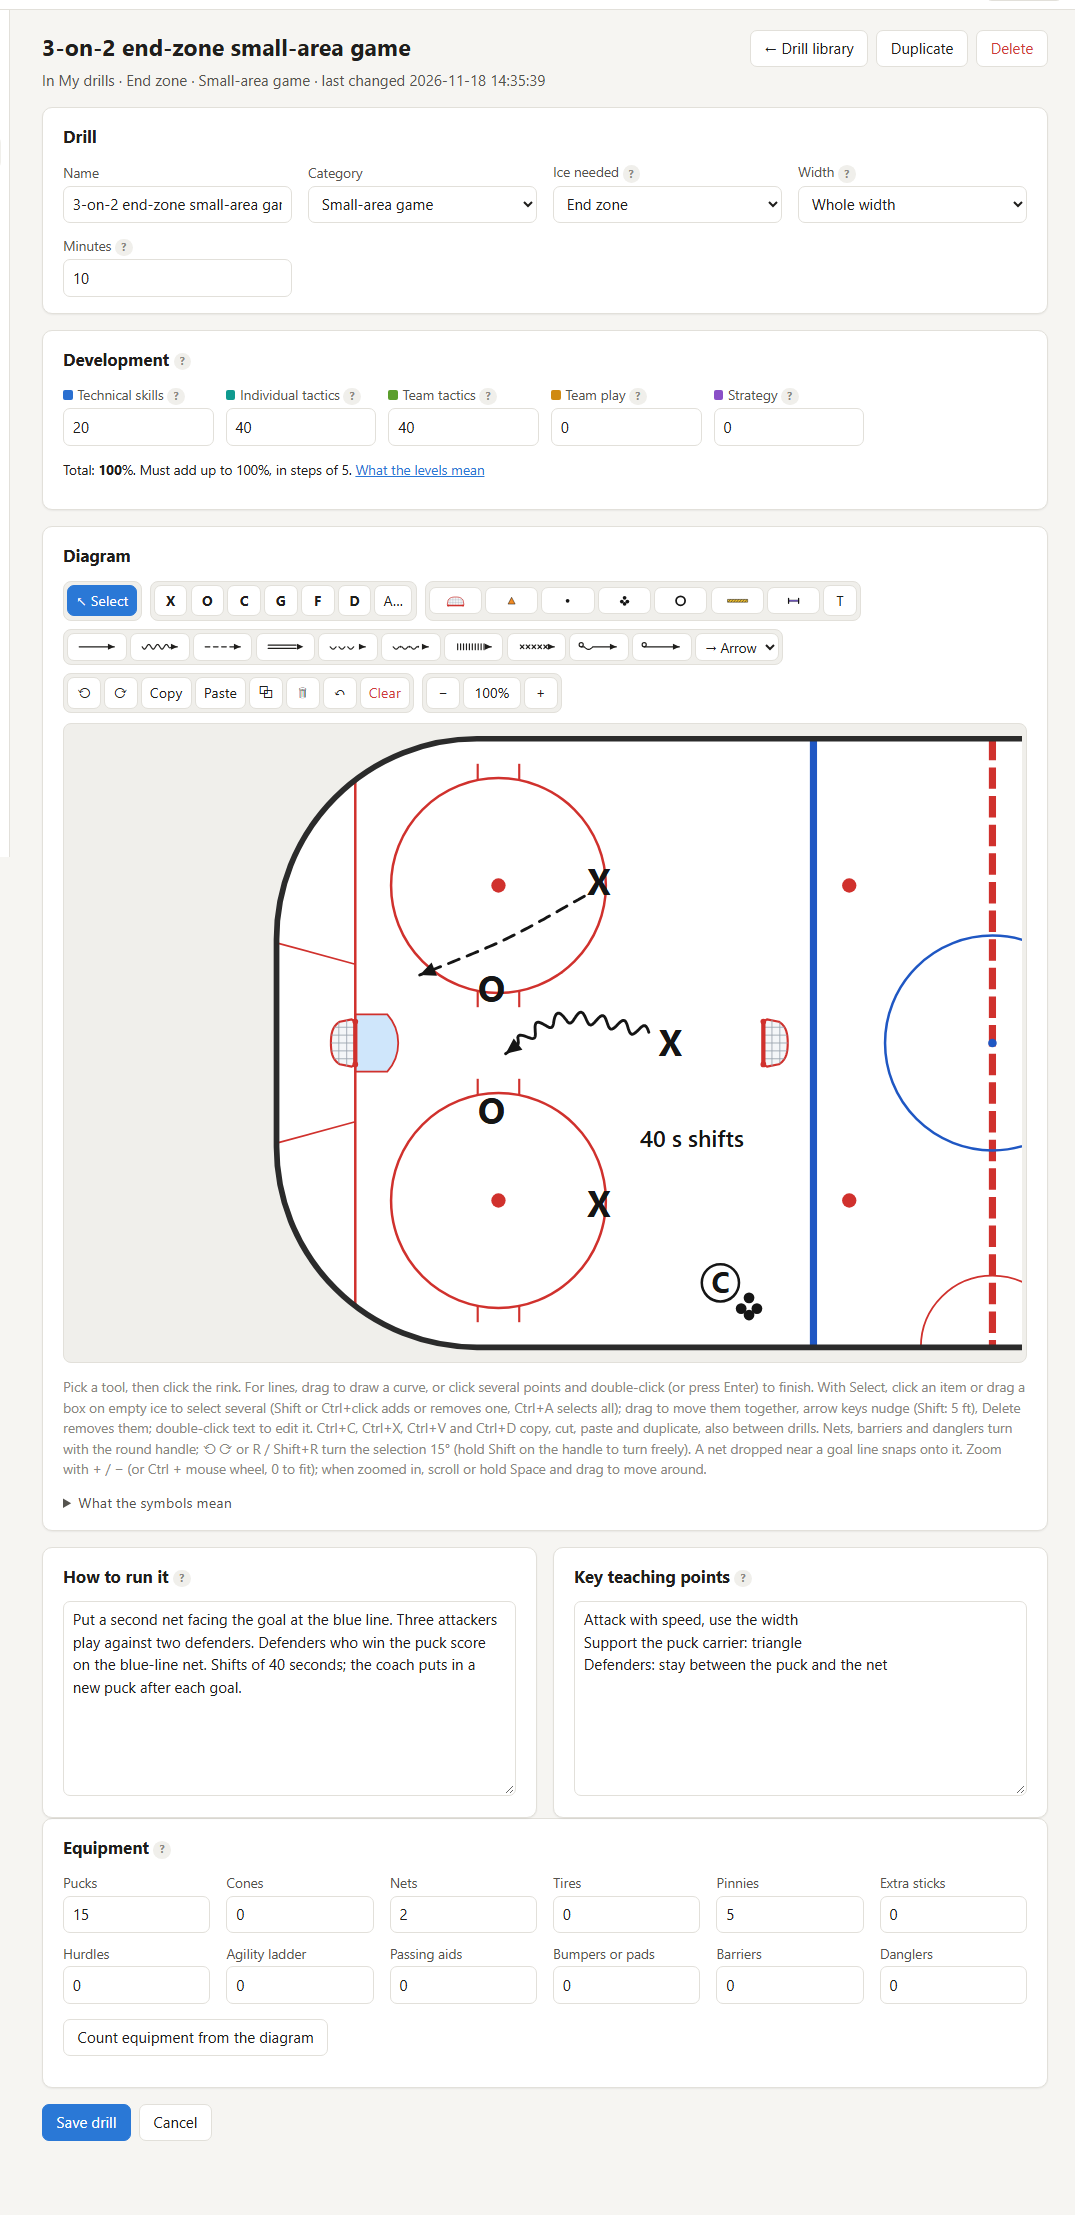
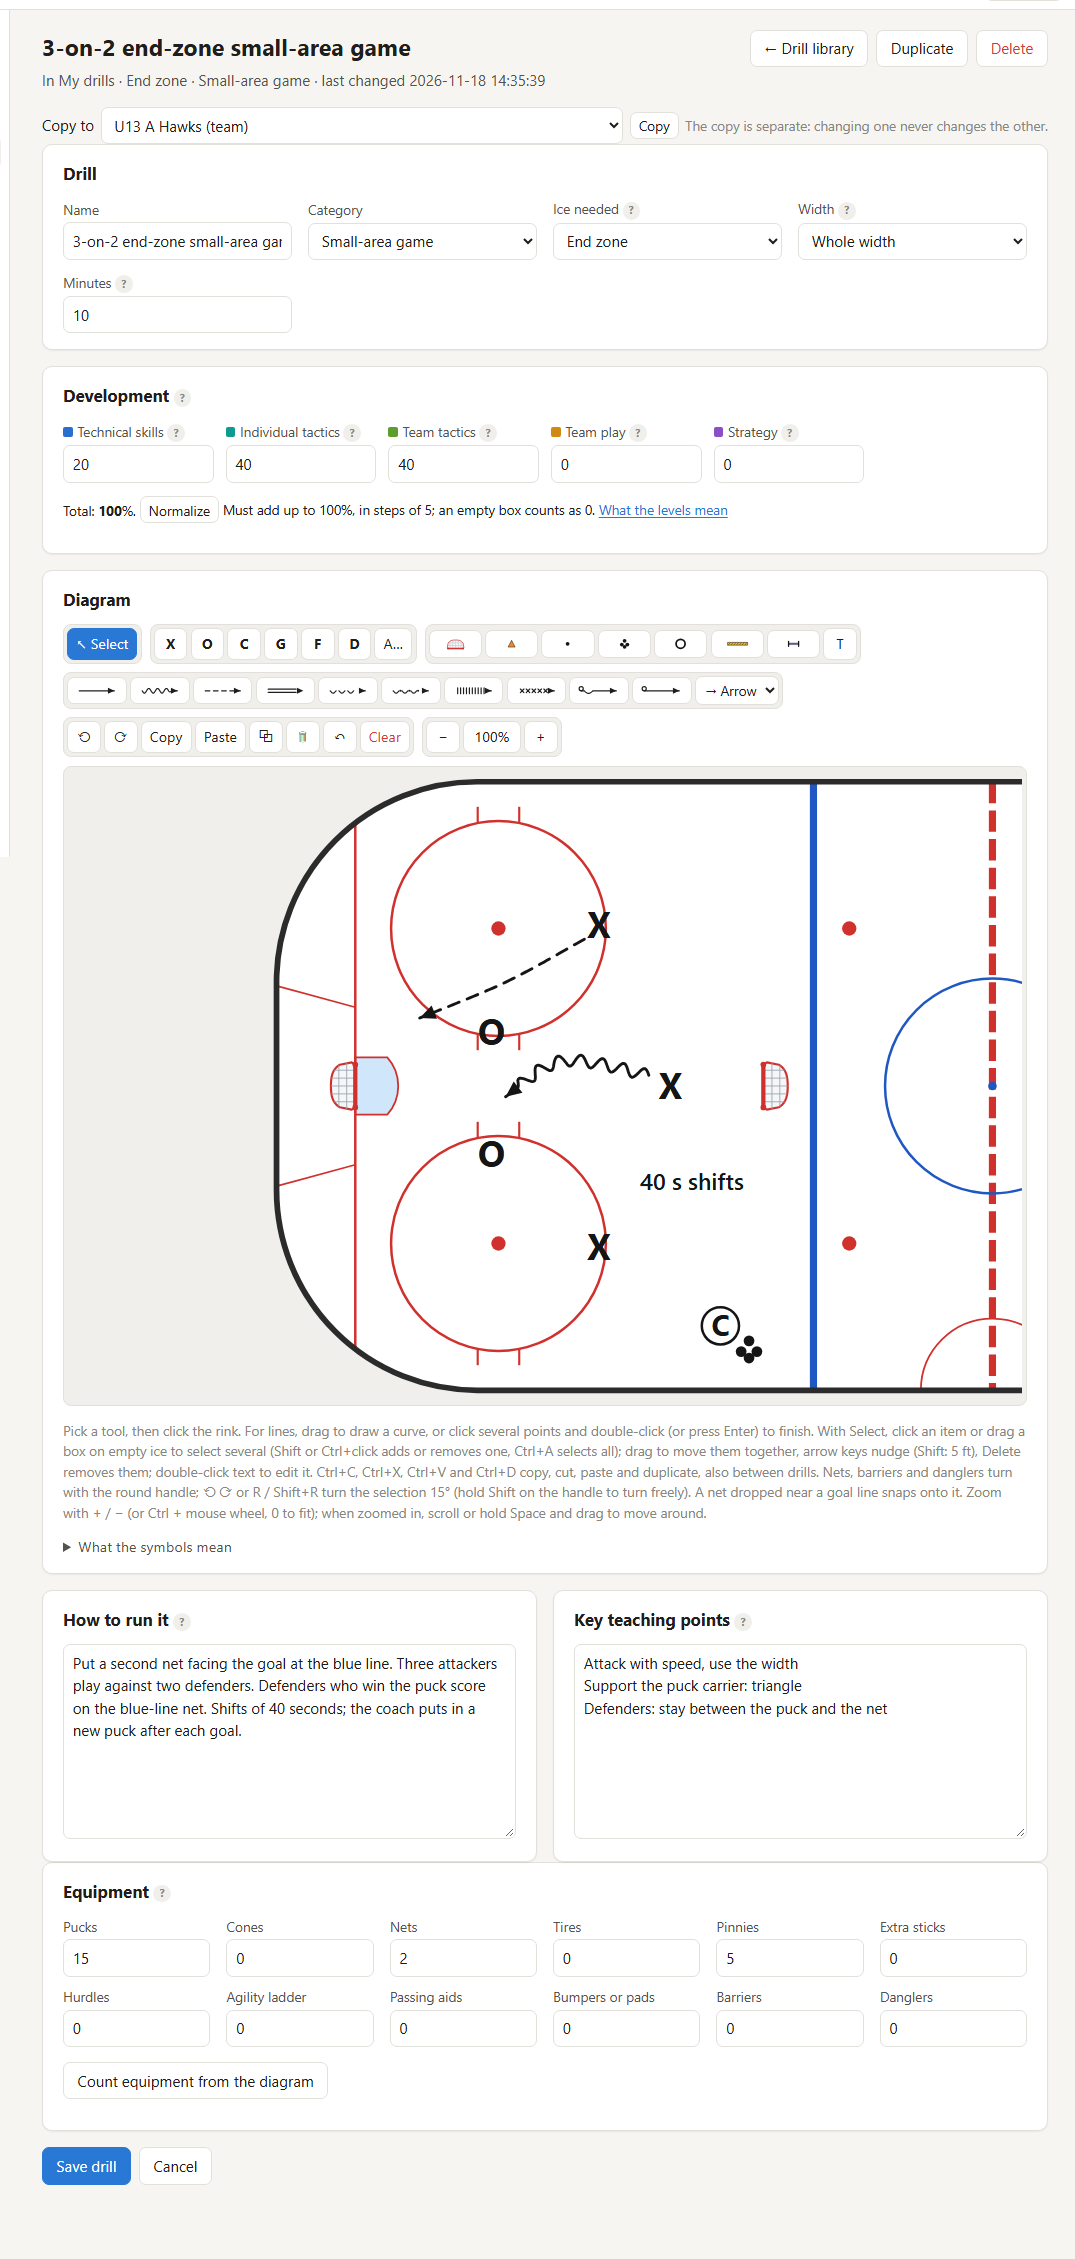
improve dev focus assignments

diff --git a/crates/server/assets/app.js b/crates/server/assets/app.js
@@ -176,14 +176,19 @@ if (window.htmx) {
   document.addEventListener("DOMContentLoaded", () => setUpToasts(document.body));
 }
 
-// The drill form's development split ([data-focus]): show the running total
-// next to it ([data-focus-total]), flagged until it makes 100%.
+// A development split ([data-focus]: a drill's split or a team's targets):
+// show the running total ([data-focus-total]), flagged until it makes 100%.
+// An empty box counts as 0 (the server reads it the same way).
+function focusValue(input) {
+  return Math.max(0, parseInt(input.value, 10) || 0);
+}
+
 function updateFocusTotal(group) {
   const total = Array.from(group.querySelectorAll("[data-focus-part]")).reduce(
-    (sum, input) => sum + (parseInt(input.value, 10) || 0),
+    (sum, input) => sum + focusValue(input),
     0,
   );
-  const out = group.parentElement && group.parentElement.querySelector("[data-focus-total]");
+  const out = group.querySelector("[data-focus-total]");
   if (out) {
     out.textContent = String(total);
     out.classList.toggle("warn-text", total !== 100);
@@ -193,6 +198,45 @@ document.addEventListener("input", (event) => {
   const group = event.target.closest("[data-focus]");
   if (group) {
     updateFocusTotal(group);
+  }
+});
+
+// Normalize ([data-focus-normalize]): scale what's entered so it adds up to
+// 100% in the boxes' steps (5%), keeping the proportions as closely as the
+// steps allow (largest remainders get the leftover steps).
+function normalizeFocus(group) {
+  const inputs = Array.from(group.querySelectorAll("[data-focus-part]"));
+  const values = inputs.map(focusValue);
+  const sum = values.reduce((a, b) => a + b, 0);
+  if (sum === 0) {
+    return;
+  }
+  const step = Number(inputs[0].step) || 5;
+  const units = Math.round(100 / step);
+  const exact = values.map((v) => (v * units) / sum);
+  const steps = exact.map(Math.floor);
+  let left = units - steps.reduce((a, b) => a + b, 0);
+  const order = exact
+    .map((e, i) => [e - Math.floor(e), i])
+    .sort((a, b) => b[0] - a[0] || a[1] - b[1]);
+  for (const [, i] of order) {
+    if (left <= 0) {
+      break;
+    }
+    steps[i] += 1;
+    left -= 1;
+  }
+  inputs.forEach((input, i) => {
+    input.value = String(steps[i] * step);
+    // Lets data-implies and the total react as if typed.
+    input.dispatchEvent(new Event("input", { bubbles: true }));
+  });
+}
+document.addEventListener("click", (event) => {
+  const button = event.target.closest("[data-focus-normalize]");
+  const group = button && button.closest("[data-focus]");
+  if (group) {
+    normalizeFocus(group);
   }
 });
 function setUpFocus(root) {

diff --git a/crates/server/src/views/development.rs b/crates/server/src/views/development.rs
@@ -149,31 +149,77 @@ pub fn composition_panel(c: &Composition, targets: Option<Split>, guide: &str) -
     }
 }
 
-/// The drill form's five percentage fields (`focus_<level>`), in 5% steps.
-pub fn focus_fields(split: Option<Split>, guide: &str) -> Markup {
-    html! {
-        div class="focus-fields" data-focus {
-            @for l in Level::ALL {
-                label class="field" {
-                    span class="field-label" {
-                        span class={ "swatch lvl-" (l.key()) } {}
-                        (l.label()) " " (tip(l.about()))
+/// Five percentage fields, one per level (`<prefix><level>`), in 5% steps.
+/// Empty or untouched boxes are 0. With JavaScript they show a running total
+/// and a Normalize button that scales what's entered to add up to 100%.
+pub struct SplitInputs<'a> {
+    /// `"focus_"` (a drill) or `"target_"` (a team's targets).
+    pub prefix: &'a str,
+    pub values: [u8; 5],
+    /// The development guide, linked under the fields.
+    pub guide: Option<&'a str>,
+    /// A `data-implies` for each box (typing a target picks "our own").
+    pub implies: Option<&'a str>,
+    /// Each level's explanation as a tip beside its name.
+    pub tips: bool,
+}
+
+impl SplitInputs<'_> {
+    pub fn render(&self) -> Markup {
+        html! {
+            div class="split-inputs" data-focus {
+                div class="focus-fields" {
+                    @for l in Level::ALL {
+                        label class="field" {
+                            span class="field-label" {
+                                span class={ "swatch lvl-" (l.key()) } {}
+                                (l.label())
+                                @if self.tips { " " (tip(l.about())) }
+                            }
+                            input type="number" name={ (self.prefix) (l.key()) } min="0" max="100"
+                                step=(Split::STEP) value=(self.values[l.index()])
+                                data-implies=[self.implies] data-focus-part;
+                        }
                     }
-                    input type="number" name={ "focus_" (l.key()) } min="0" max="100"
-                        step=(Split::STEP) required
-                        value=[split.map(|s| s.get(*l))] data-focus-part;
+                }
+                p class="small" {
+                    span class="js-only" {
+                        "Total: " strong data-focus-total { "–" } "%. "
+                        button type="button" class="small" data-focus-normalize
+                            title="Scale the numbers so they add up to 100%, in steps of 5" { "Normalize" }
+                        " "
+                    }
+                    "Must add up to 100%, in steps of 5; an empty box counts as 0. "
+                    @if let Some(g) = self.guide {
+                        a href=(g) target="_blank" { "What the levels mean" }
+                    }
                 }
             }
-        }
-        p class="small" {
-            span class="js-only" { "Total: " strong data-focus-total { "–" } "%. " }
-            "Must add up to 100%, in steps of 5. "
-            a href=(guide) target="_blank" { "What the levels mean" }
         }
     }
 }
 
-/// Read the drill form's `focus_<level>` fields.
+/// A split's five values, or all 0 for none.
+pub fn split_values(split: Option<Split>) -> [u8; 5] {
+    split.map_or([0; 5], |s| s.0)
+}
+
+/// What was typed in `<prefix><level>` boxes, for showing a rejected form
+/// again (anything that isn't a percentage shows as 0).
+pub fn typed_values(prefix: &str, get: impl Fn(&str) -> String) -> [u8; 5] {
+    let mut v = [0u8; 5];
+    for (i, l) in Level::ALL.iter().enumerate() {
+        v[i] = get(&format!("{prefix}{}", l.key()))
+            .trim()
+            .parse::<u8>()
+            .ok()
+            .filter(|p| *p <= 100)
+            .unwrap_or(0);
+    }
+    v
+}
+
+/// Read the drill form's `focus_<level>` fields (an empty box is 0).
 pub fn parse_focus(get: impl Fn(&str) -> String) -> Result<Split, String> {
     let mut parts = [0u8; 5];
     let mut any = false;

diff --git a/crates/server/src/routes/drills.rs b/crates/server/src/routes/drills.rs
@@ -6,7 +6,9 @@ use crate::flash;
 use crate::form;
 use crate::state::Shared;
 use crate::views::components::{card, empty, heading, legend_list, link_button, notice, svg};
-use crate::views::development::{GUIDE_PATH, focus_fields, parse_focus, split_bar};
+use crate::views::development::{
+    GUIDE_PATH, SplitInputs, parse_focus, split_bar, split_values, typed_values,
+};
 use crate::views::forms::{Live, LiveTarget, action_button, field, live_form};
 use crate::views::{Nav, Page, page};
 use axum::extract::Query;
@@ -347,7 +349,7 @@ fn drill_form(
     used: u32,
     back: &str,
     new_in: Option<Library>,
-    guide: &str,
+    focus: &SplitInputs<'_>,
     from: Option<i64>,
 ) -> Markup {
     let qty = |e: Equipment| {
@@ -402,7 +404,7 @@ fn drill_form(
                 }
             }))
             (card("Development", "How the drill's time splits across Hockey Canada's development levels. Practices add these up and compare them with the team's targets.",
-                focus_fields(f.focus, guide)))
+                focus.render()))
             (card("Diagram", "", diagram_editor(f.ice, &f.diagram, &f.name)))
             div class="grid" {
                 (card("How to run it", "Shown under the rink on the printed plan.", html! {
@@ -464,7 +466,7 @@ async fn new_page(cx: Ctx, Query(q): Query<NewQuery>) -> AppResult<Page> {
     let (back, back_label) = back_to(&cx, from, lib);
     let body = html! {
         (heading("New drill", &format!("In {name}."), link_button(&back, back_label, false)))
-        (drill_form(&cx.url("/drills"), &f, 0, &back, Some(lib), &cx.url(GUIDE_PATH), from))
+        (drill_form(&cx.url("/drills"), &f, 0, &back, Some(lib), &focus_inputs(&cx.url(GUIDE_PATH), [0; 5]), from))
     };
     Ok(page(&cx, Nav::Drills, "New drill", body))
 }
@@ -530,13 +532,26 @@ struct Rejected<'a> {
     used: u32,
     new_in: Option<Library>,
     from: Option<i64>,
+    /// The development split as typed.
+    focus: [u8; 5],
+}
+
+/// The drill form's development split boxes.
+fn focus_inputs(guide: &str, values: [u8; 5]) -> SplitInputs<'_> {
+    SplitInputs {
+        prefix: "focus_",
+        values,
+        guide: Some(guide),
+        implies: None,
+        tips: true,
+    }
 }
 
 fn rejected(cx: &Ctx, r: Rejected<'_>, f: &DrillFields, error: &str) -> Response {
     let body = html! {
         (heading(r.title, "", link_button(r.back, "← Back", false)))
         (notice("error", html! { "Not saved: " (error) }))
-        (drill_form(r.action, f, r.used, r.back, r.new_in, &cx.url(GUIDE_PATH), r.from))
+        (drill_form(r.action, f, r.used, r.back, r.new_in, &focus_inputs(&cx.url(GUIDE_PATH), r.focus), r.from))
     };
     (
         StatusCode::UNPROCESSABLE_ENTITY,
@@ -580,6 +595,7 @@ async fn create(cx: Ctx, Form(pairs): Form<Vec<(String, String)>>) -> AppResult<
                 used: 0,
                 new_in: Some(lib),
                 from,
+                focus: typed_values("focus_", |k| field_value(&pairs, k).to_string()),
             };
             Ok(rejected(&cx, r, &f, &format!("{e:#}")))
         }
@@ -643,7 +659,7 @@ async fn edit_page(dc: DrillCtx, Query(q): Query<FromQuery>) -> AppResult<Page> 
                 strong { "Development" } " and save."
             }))
         }
-        (drill_form(&dc.url(&base), &d.fields(), used, &back, None, &dc.url(GUIDE_PATH), from))
+        (drill_form(&dc.url(&base), &d.fields(), used, &back, None, &focus_inputs(&dc.url(GUIDE_PATH), split_values(d.focus)), from))
     };
     Ok(page(&dc, Nav::Drills, &d.name, body))
 }
@@ -681,6 +697,7 @@ async fn update(dc: DrillCtx, Form(pairs): Form<Vec<(String, String)>>) -> AppRe
                 used,
                 new_in: None,
                 from,
+                focus: typed_values("focus_", |k| field_value(&pairs, k).to_string()),
             };
             Ok(rejected(&dc, r, &f, &format!("{e:#}")))
         }

diff --git a/crates/server/src/routes/teams.rs b/crates/server/src/routes/teams.rs
@@ -9,14 +9,16 @@ use crate::flash;
 use crate::form;
 use crate::state::Shared;
 use crate::views::components::{Num, Text, card, empty, heading, link_button, thead};
-use crate::views::development::{GUIDE_PATH, composition_panel, parse_targets, targets_source};
+use crate::views::development::{
+    GUIDE_PATH, SplitInputs, composition_panel, parse_targets, split_values, targets_source,
+};
 use crate::views::forms::{action_button, field};
 use crate::views::{Nav, Page, page};
 use axum::extract::Path;
 use axum::response::Response;
 use axum::routing::{get, post};
 use axum::{Form, Router};
-use localapp_core::development::{AgeDivision, Composition, Level};
+use localapp_core::development::{AgeDivision, Composition};
 use localapp_core::owner::{Library, MemberId, TeamRole};
 use maud::{Markup, html};
 use serde::Deserialize;
@@ -430,15 +432,13 @@ fn development_card(tc: &TeamCtx, so_far: (Composition, u32), all: (Composition,
                                 input type="radio" name="targets" value="custom" checked[custom];
                                 " Our own (e.g. what your association asks for):"
                             }
-                            div class="focus-fields" {
-                                @for l in Level::ALL {
-                                    label class="field" {
-                                        span class="field-label" { span class={ "swatch lvl-" (l.key()) } {} (l.label()) }
-                                        input type="number" name={ "target_" (l.key()) } min="0" max="100" step="5"
-                                            value=[targets.map(|s| s.get(*l))] data-implies="targets=custom";
-                                    }
-                                }
-                            }
+                            (SplitInputs {
+                                prefix: "target_",
+                                values: split_values(targets),
+                                guide: None,
+                                implies: Some("targets=custom"),
+                                tips: false,
+                            }.render())
                         }
                         div { button type="submit" { "Save" } }
                     }

diff --git a/crates/server/tests/development.rs b/crates/server/tests/development.rs
@@ -68,6 +68,32 @@ async fn drills_must_say_how_their_time_splits() {
         drill(&mut app, "95%", &short).await,
         StatusCode::UNPROCESSABLE_ENTITY
     );
+    // What was typed comes back in the boxes (the rest as 0).
+    let mut form = vec![
+        ("name", "95%"),
+        ("category", "passing"),
+        ("ice", "quarter"),
+        ("minutes", "8"),
+        ("diagram", DIAGRAM),
+    ];
+    form.extend_from_slice(&short);
+    let body = app.post(&url("/drills"), &form).await.body;
+    let value = |level: &str| {
+        body.split(&format!("name=\"focus_{level}\""))
+            .nth(1)
+            .and_then(|s| s.split("value=\"").nth(1))
+            .and_then(|s| s.split('"').next())
+            .unwrap_or("")
+            .to_string()
+    };
+    assert_eq!(
+        [value("technical"), value("individual"), value("strategy")],
+        ["50", "45", "0"]
+    );
+    assert!(
+        body.contains("data-focus-normalize"),
+        "the Normalize button"
+    );
     let steps = [("focus_technical", "52"), ("focus_individual", "48")];
     assert_eq!(
         drill(&mut app, "Odd steps", &steps).await,
@@ -87,6 +113,25 @@ async fn drills_must_say_how_their_time_splits() {
     let page = app.get(&url(&format!("/drills/{id}"))).await.body;
     assert!(page.contains(r#"name="focus_team_tactics""#));
     assert!(page.contains(r#"value="30""#));
+
+    // Only one box filled and the others left empty: they count as 0.
+    let id = drill_id(
+        &mut app,
+        "Edges",
+        &[
+            ("focus_technical", "100"),
+            ("focus_individual", ""),
+            ("focus_team_tactics", ""),
+            ("focus_team_play", ""),
+            ("focus_strategy", ""),
+        ],
+    )
+    .await;
+    assert!(id > 0);
+    // A new drill's boxes start at 0, and none is required.
+    let blank = app.get(&url("/drills/new")).await.body;
+    assert!(blank.contains(r#"name="focus_strategy" min="0" max="100" step="5" value="0""#));
+    assert!(!blank.contains("required data-focus-part"));
     let list = app.get(&url("/drills")).await.body;
     assert!(list.contains("Team tactics 30%"), "the card's split bar");
 

diff --git a/docs/user-guide.md b/docs/user-guide.md
@@ -99,7 +99,11 @@ Click a drill to open it, or **New drill**. A drill has:
 - **Development**: how the drill's time splits across the five development
   levels (technical skills, individual tactics, team tactics, team play,
   strategy), in 5% steps adding up to 100%. Required: a drill can't be saved
-  without it. A 2-on-1 drill might be 40 / 30 / 30 / 0 / 0. See
+  without it. A 2-on-1 drill might be 40 / 30 / 30 / 0 / 0. The boxes start
+  at 0, and one left empty counts as 0, so fill in only the levels the drill
+  works on. **Normalize** scales what you've entered to add up to 100%: type
+  rough weights such as 2 / 1 / 1 and it makes them 50 / 25 / 25. The same
+  boxes and button are on a team's own targets. See
   [Development focus](#development-focus).
 
 ![The development split on a drill](images/18-drill-development.png)
